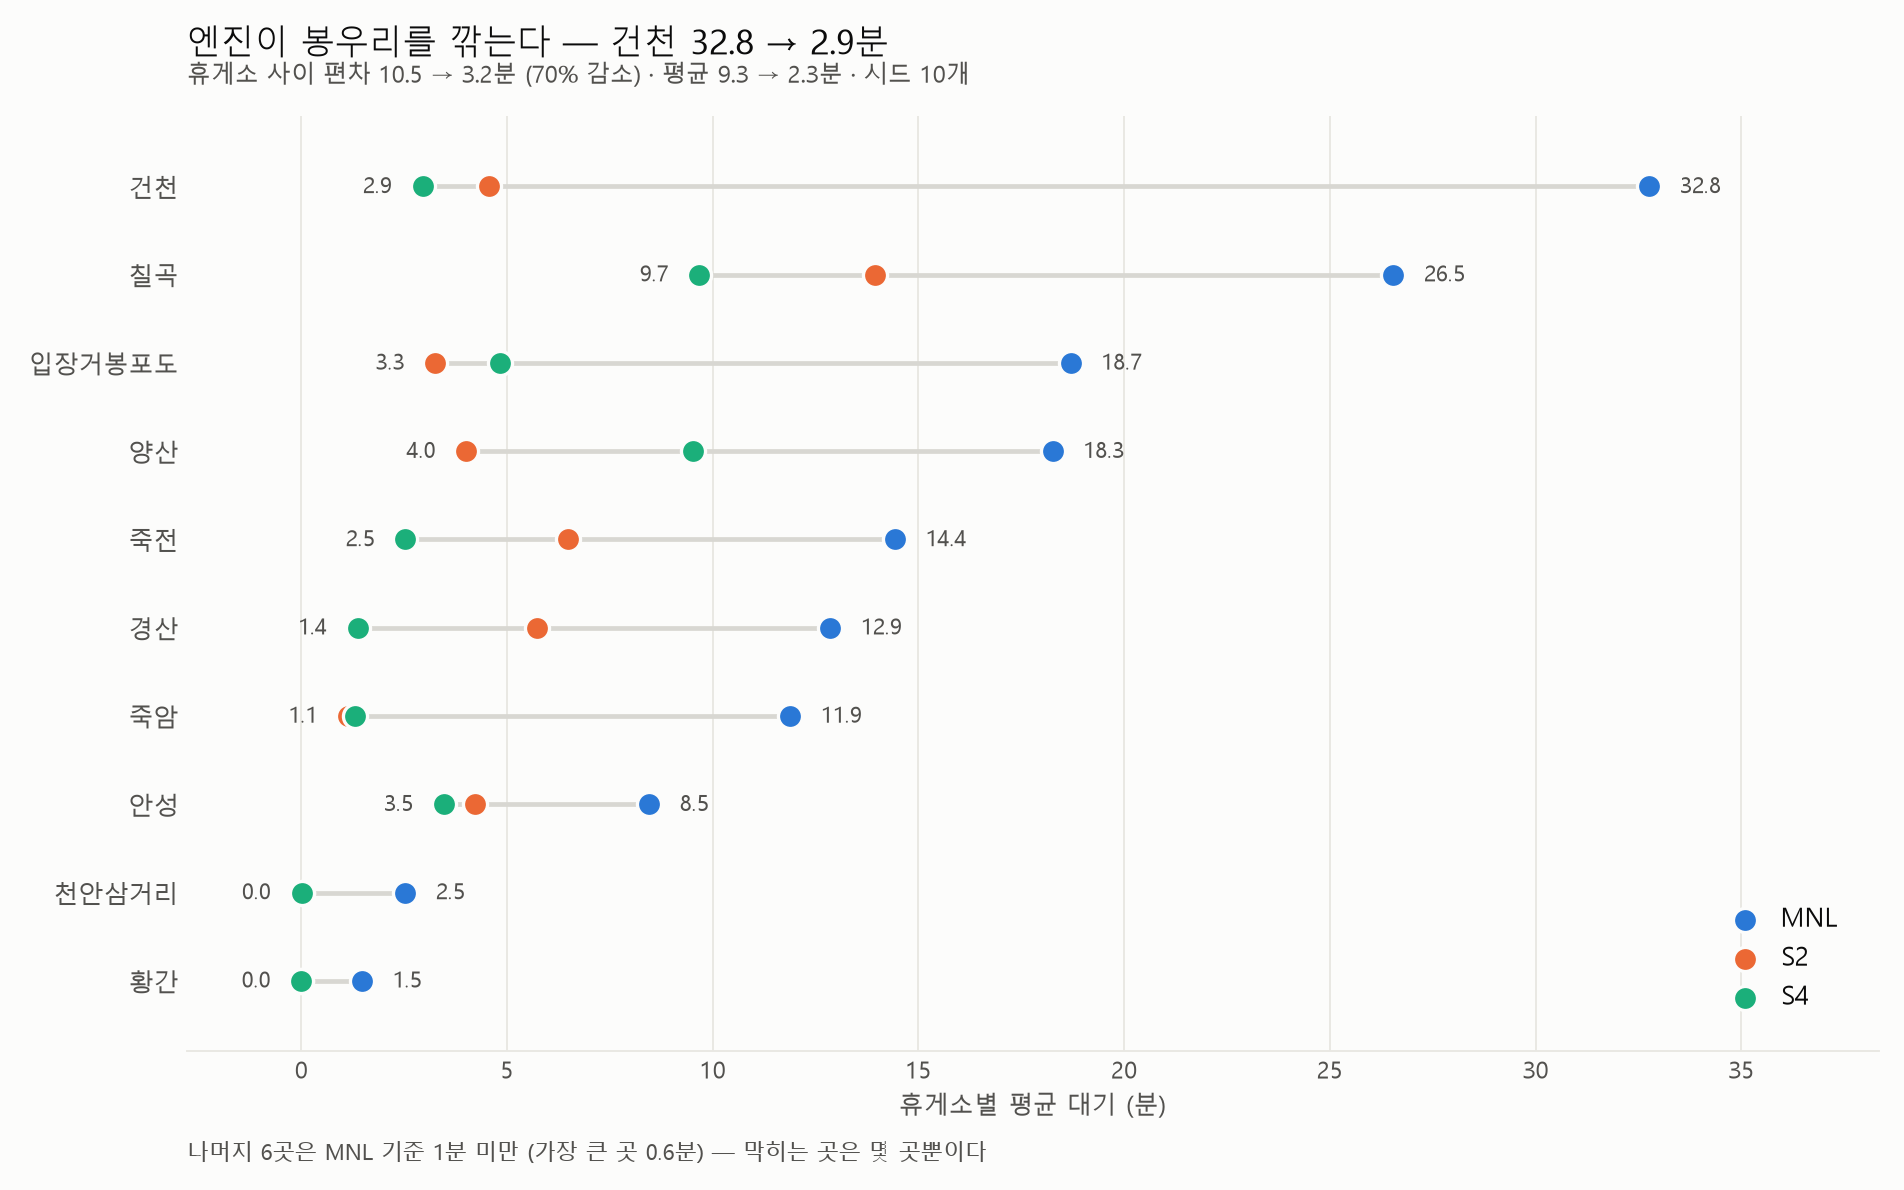
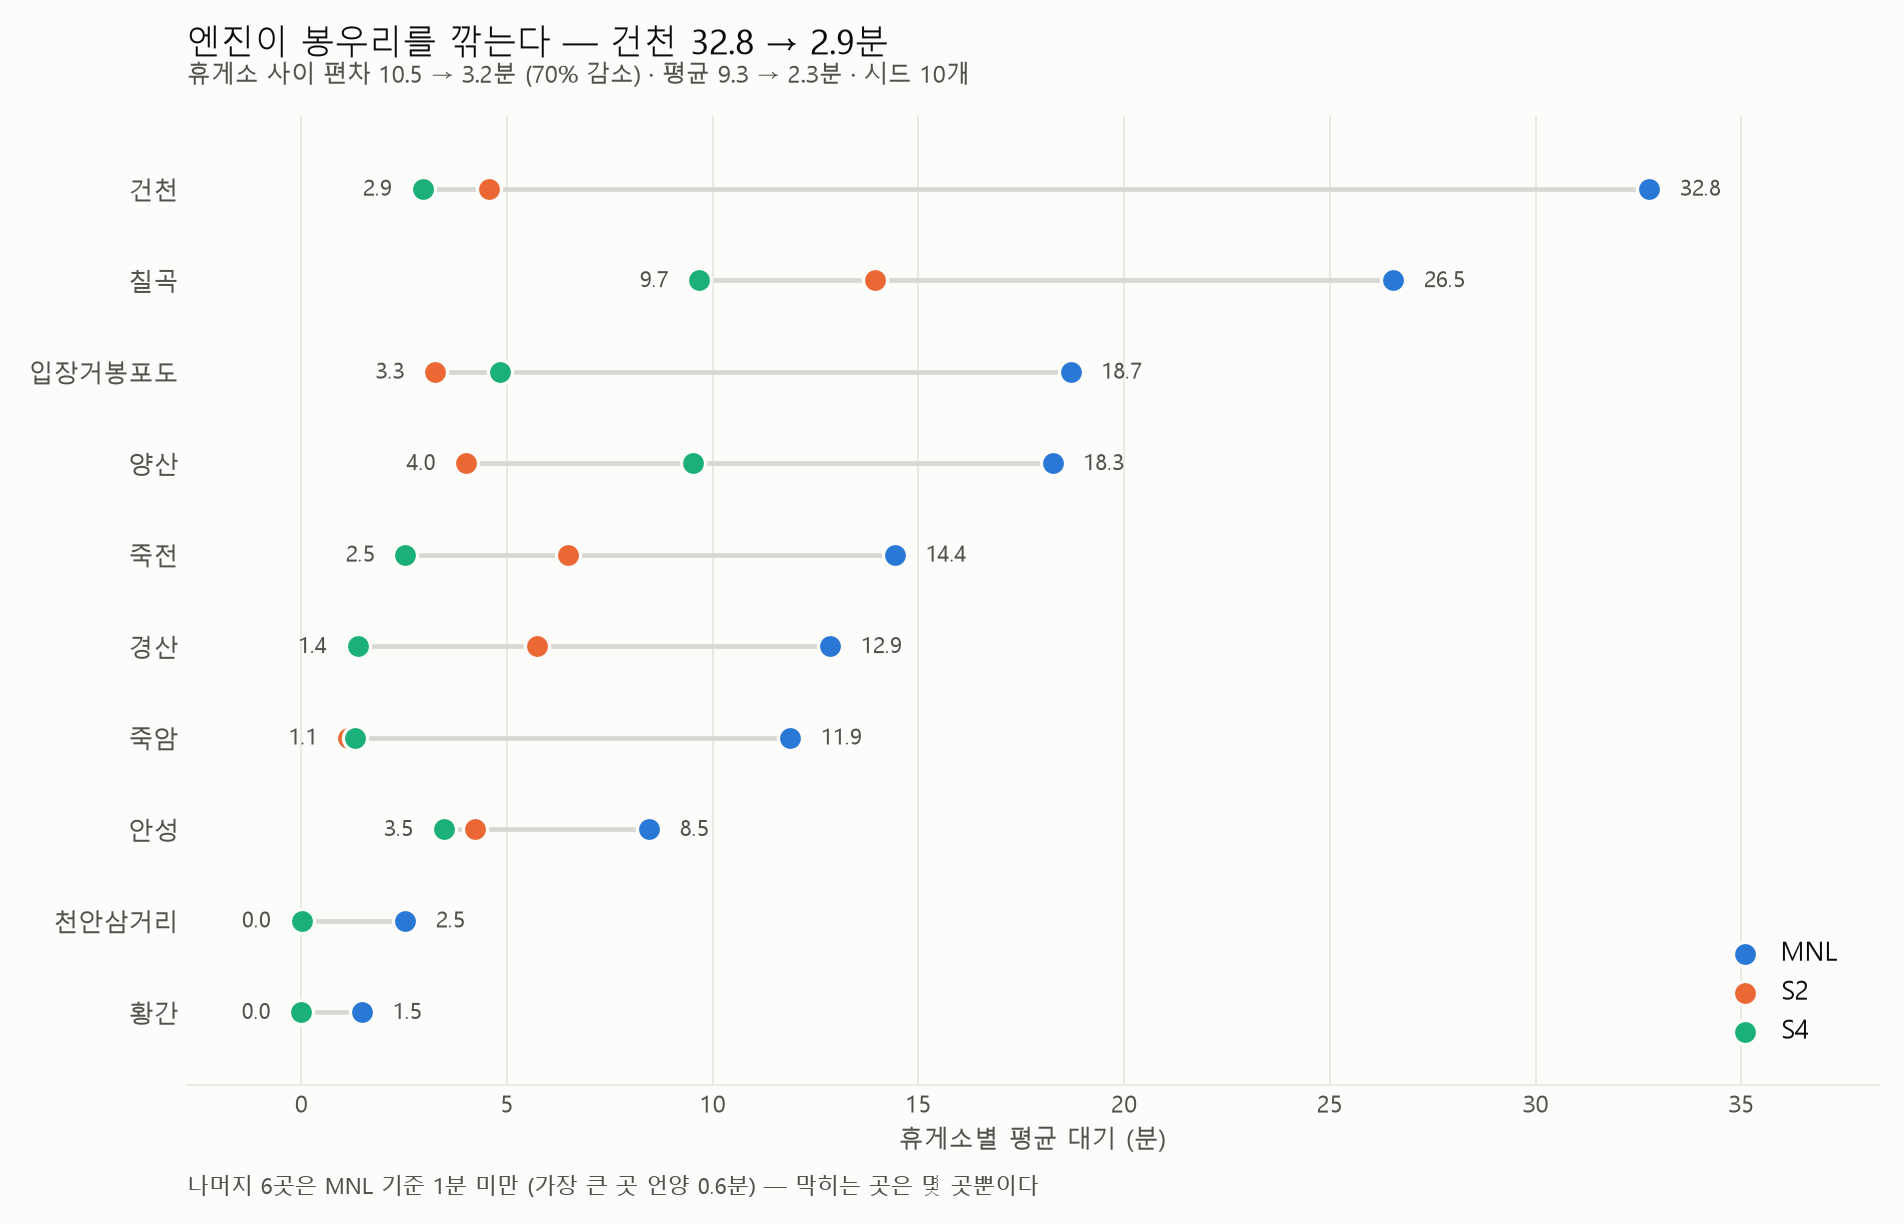
feat: 시간축 대기 파형 (칸마다 패널) + 덤벨 상위 N 모드
## 새 그림 — `plot_wait_signal.py`

세 그림이 각자 다른 질문에 답한다:

  plot_station_bars.py    가로축 = 휴게소, 칸마다 패널.  **어디가** 막히나
  plot_wait_dumbbell.py   가로축 = 대기,  한 줄 = 휴게소. **얼마나** 깎이나
  plot_wait_signal.py     가로축 = **시각**, 칸마다 패널. **언제** 막히나

신호 분해 그림처럼 **겹치지 않고 쌓는다.** 겹쳐 그리면 선이 서로를 가리고
"진폭이 줄었다" 가 엉킴으로 보인다.

★ **세로 눈금을 세 칸이 공유한다.** 패널마다 제 눈금을 쓰면 세 파형이 똑같아
  보인다 (#93 에서 겪은 그 고장) — 그러면 이 그림은 거짓말이 된다.

### 대기를 어떻게 샘플링하나

`charge_event.wait_min` 을 **도착 시각**으로 구간에 담아 평균한다.
사다리 run 에는 5분 간격 `snapshot.parquet` 의 `wait_min` 이 있지만 쓰지
않는다 — 그건 "지금 가면 기다릴 시간"(앱 화면 값)이라 차가 없는 프레임까지
평균에 들어가 희석되고, 무엇보다 **MNL 은 스냅샷이 아예 없다**
(`run_mnl_world.py` 가 버린다). 충전 이벤트로 뽑아야 세 칸을 같은 자로 본다.
그리고 그게 막대·덤벨·히트맵과 **같은 열**이다.

### 결과 (추석 9/25 EV15%, 10시드, 10분 구간)

  코리도 전체   봉우리 15.7 -> 7.2 -> 5.3분 (66% 감소) · 평균 8.1 -> 2.7 -> 2.0
  건천          봉우리 67.7 -> 12.2 -> 9.4분 (86% 감소) · 평균 34.8 -> 4.0 -> 2.5

## 덤벨 `--top N`

상위 N 곳만 남기고 점·글씨를 키운다 (6줄 이하면 자동). 슬라이드용.

### 그리면서 고친 것 둘

· **각주를 거른 방식에 맞춰 쓴다.** `--top 5` 로 자른 뒤에도 "1분 미만" 이라고
  적어서 "나머지 11곳은 1분 미만 (가장 큰 곳 12.9분)" 이라는 모순이 찍혔다
· **휴게소 이름은 상·하행에 둘 다 있다** (건천휴게소가 UP·DOWN 두 곳).
  이름 -> id 사전을 코리도로 좁히지 않아 반대 방향을 가리켜 빈 결과가 났다

diff --git a/scripts/plot_wait_signal.py b/scripts/plot_wait_signal.py
@@ -1,0 +1,199 @@
+"""대기 파형 — **시간축으로 샘플링**해서 칸마다 패널 하나 (발표 §5-1).
+
+    python scripts/plot_wait_signal.py
+    python scripts/plot_wait_signal.py --station 건천휴게소
+    python scripts/plot_wait_signal.py --bin 5 --dark
+
+## 다른 두 그림과 무엇이 다른가
+
+    plot_station_bars.py    가로축 = 휴게소, 칸마다 패널.  **어디가** 막히나
+    plot_wait_dumbbell.py   가로축 = 대기,  한 줄 = 휴게소. **얼마나** 깎이나
+    이 그림                  가로축 = **시각**, 칸마다 패널. **언제** 막히나
+
+신호 분해 그림처럼 **겹치지 않고 쌓는다.** 겹쳐 그리면 선이 서로를 가리고,
+"진폭이 줄었다" 가 선 세 개의 엉킴으로 보인다. 쌓아 놓고 **세로 눈금을 공유**
+하면 위에서 아래로 내려가며 봉우리가 주저앉는 것이 한눈에 보인다.
+
+★ **세로 눈금을 공유하지 않으면 이 그림은 거짓말이 된다.** 패널마다 제 눈금을
+  쓰면 세 파형이 똑같아 보인다 (#93 에서 겪은 그 고장).
+
+## 대기를 어떻게 샘플링하나
+
+`charge_event.wait_min` 을 **도착 시각**으로 구간에 담아 평균한다.
+
+  · 사다리 run 에는 5분 간격 `snapshot.parquet` 에 `wait_min` 이 있지만 **쓰지
+    않는다.** 그건 "지금 가면 기다릴 시간"(앱 화면 값)이고, 차가 한 대도 없는
+    프레임까지 평균에 들어가 값이 희석된다
+  · `charge_event.wait_min` 은 **실제로 기다린 시간**이고, 막대 그림·덤벨·
+    2D 히트맵과 **같은 열**이다. 그림마다 다른 정의를 쓰면 나란히 못 놓는다
+  · 그리고 MNL 은 `run_mnl_world.py` 로 돌아서 **스냅샷이 아예 없다.**
+    충전 이벤트로 뽑아야 세 칸을 같은 자로 견줄 수 있다
+"""
+
+from __future__ import annotations
+
+import argparse
+import sqlite3
+import sys
+from pathlib import Path
+
+import matplotlib
+import numpy as np
+import pandas as pd
+from _bootstrap import ROOT  # noqa: E402,F401
+
+from evdt.io.run_registry import make_run_id  # noqa: E402
+from evdt.paths import RUNS_DIR, default_db_path  # noqa: E402
+from evdt.runner import load_config, parse_seeds  # noqa: E402
+from evdt.viz.plots import _korean_font  # noqa: E402
+
+matplotlib.use("Agg")
+import matplotlib.pyplot as plt  # noqa: E402
+
+#: 검증된 범주형 1·2·3 번 칸 — 덤벨 그림과 **같은 색**이어야 나란히 놓인다
+SERIES = ["#2a78d6", "#eb6834", "#1baf7a"]
+SERIES_DARK = ["#3987e5", "#d95926", "#199e70"]
+LIGHT = {"surface": "#fcfcfb", "ink": "#0b0b0b", "ink2": "#52514e", "grid": "#e8e7e2"}
+DARK = {"surface": "#1a1a19", "ink": "#f0efec", "ink2": "#c3c2b7", "grid": "#2c2c29"}
+
+
+def binned(paths: list[Path], bin_min: float, station: str | None,
+           sid_of: dict[str, str]) -> pd.Series:
+    """도착 시각 구간별 평균 실제 대기. 시드마다 내고 평균한다."""
+
+    acc = []
+    for p in paths:
+        if not p.is_file():
+            continue
+        f = pd.read_parquet(p)
+        if station:
+            f = f[f["station_id"] == sid_of[station]]
+        if not len(f):
+            continue
+        f = f.assign(b=(f["t_arrive_min"] // bin_min) * bin_min)
+        acc.append(f.groupby("b")["wait_min"].mean())
+    if not acc:
+        raise SystemExit("[중단] 충전 이벤트를 못 찾았다")
+    return pd.concat(acc, axis=1).mean(axis=1).sort_index()
+
+
+def main() -> int:
+    ap = argparse.ArgumentParser(
+        description=__doc__, formatter_class=argparse.RawDescriptionHelpFormatter)
+    ap.add_argument("--config", default="config/scenario_chuseok_up_congested.yaml")
+    ap.add_argument("--stages", default="S2,S4")
+    ap.add_argument("--seeds", default="1-10")
+    ap.add_argument("--mnl-dir",
+                    default="runs/mnl_world/chuseok_congested_floor/theta0p05_w1p0")
+    ap.add_argument("--bin", type=float, default=10.0, help="샘플 구간 (분)")
+    ap.add_argument("--station", default=None,
+                    help="한 휴게소만 (예: 건천휴게소). 비우면 코리도 전체")
+    ap.add_argument("--from-hour", type=float, default=5.0)
+    ap.add_argument("--to-hour", type=float, default=23.0)
+    ap.add_argument("--dark", action="store_true")
+    ap.add_argument("--out", default="docs/figures/wait_signal.png")
+    args = ap.parse_args()
+
+    cfg = load_config(args.config, stage="S0")
+    stages = [s.strip() for s in args.stages.split(",") if s.strip()]
+    seeds = parse_seeds(args.seeds)
+    if len(stages) + 1 > len(SERIES):
+        raise SystemExit(f"[중단] 칸이 {len(stages) + 1}개다 — 색이 3칸까지다")
+
+    # ★ 휴게소 **이름은 상·하행에 둘 다 있다** (건천휴게소가 UP·DOWN 두 곳).
+    #   코리도로 좁히지 않으면 이름 → id 사전이 반대 방향을 가리켜 빈 결과가 난다
+    with sqlite3.connect(f"file:{default_db_path()}?mode=ro", uri=True) as con:
+        sid_of = {n: s for s, n in con.execute(
+            "SELECT station_id, name FROM station WHERE corridor_id = ?",
+            (cfg.corridor_id,))}
+    if args.station and args.station not in sid_of:
+        raise SystemExit(f"[중단] 그런 휴게소가 없다: {args.station}")
+
+    series: dict[str, pd.Series] = {
+        "MNL": binned([ROOT / args.mnl_dir / f"seed{s}" / "MNL.parquet" for s in seeds],
+                      args.bin, args.station, sid_of)}
+    for st in stages:
+        series[st] = binned(
+            [RUNS_DIR / make_run_id(cfg.scenario_id, st, s, cfg.policy.participation)
+             / "charge_event.parquet" for s in seeds],
+            args.bin, args.station, sid_of)
+
+    lo, hi = args.from_hour * 60, args.to_hour * 60
+    grid = np.arange(lo, hi + args.bin, args.bin)
+    frame = pd.DataFrame({k: v.reindex(grid).fillna(0.0) for k, v in series.items()},
+                         index=grid)
+    keys = list(frame.columns)
+
+    where = args.station or "코리도 전체"
+    print(f"\n{cfg.scenario_id} · {where} · 시드 {len(seeds)}개 · {args.bin:g}분 구간")
+    print(f"\n{'칸':<6}{'평균':>8}{'최대':>8}{'봉우리 시각':>12}{'편차':>8}")
+    for k in keys:
+        pk = frame[k].idxmax()
+        print(f"{k:<6}{frame[k].mean():>8.1f}{frame[k].max():>8.1f}"
+              f"{int(pk) // 60:>9}시{int(pk) % 60:02d}분{frame[k].std(ddof=1):>8.1f}")
+    print(f"\n  ★ 봉우리 {frame[keys[0]].max():.1f} → {frame[keys[-1]].max():.1f}분 "
+          f"({(1 - frame[keys[-1]].max() / frame[keys[0]].max()) * 100:.0f}% 감소)")
+
+    # --- 그림 ---------------------------------------------------------------
+    C = DARK if args.dark else LIGHT
+    cols = SERIES_DARK if args.dark else SERIES
+    _korean_font(plt)
+    n = len(keys)
+    fig, axes = plt.subplots(n, 1, figsize=(11.0, 2.35 * n + 1.6), sharex=True,
+                             sharey=True)                 # ★ 세로 눈금 공유
+    fig.patch.set_facecolor(C["surface"])
+    top = float(frame.to_numpy().max()) * 1.22
+
+    for i, (k, ax) in enumerate(zip(keys, axes, strict=True)):
+        ax.set_facecolor(C["surface"])
+        x = frame.index / 60.0
+        ax.fill_between(x, frame[k], color=cols[i], alpha=0.16, zorder=2)
+        ax.plot(x, frame[k], color=cols[i], linewidth=2.0, zorder=3)
+
+        pk = frame[k].idxmax()
+        ax.plot([pk / 60.0], [frame[k].max()], "o", markersize=9, color=cols[i],
+                markeredgecolor=C["surface"], markeredgewidth=2.0, zorder=4)
+        ax.annotate(f"최대 {frame[k].max():.1f}분",
+                    (pk / 60.0, frame[k].max()), textcoords="offset points",
+                    xytext=(9, 4), fontsize=10, color=C["ink2"], zorder=5)
+
+        ax.set_ylim(0, top)
+        ax.set_ylabel("대기 (분)", fontsize=10, color=C["ink2"])
+        ax.grid(axis="y", color=C["grid"], linewidth=0.8, zorder=0)
+        ax.set_axisbelow(True)
+        for side in ("top", "right"):
+            ax.spines[side].set_visible(False)
+        for side in ("left", "bottom"):
+            ax.spines[side].set_color(C["grid"])
+        ax.tick_params(colors=C["ink2"], length=0, labelsize=10)
+        # 한 패널에 한 선이라 범례가 없다 — **제목이 이름을 진다**
+        ax.set_title(f"{k}   평균 {frame[k].mean():.1f}분", fontsize=12.5,
+                     color=C["ink"], loc="left", pad=7)
+
+    axes[-1].set_xlabel("시각", fontsize=10.5, color=C["ink2"])
+    axes[-1].set_xticks(np.arange(args.from_hour, args.to_hour + 1, 2))
+    axes[-1].set_xticklabels([f"{int(h)}시" for h in
+                              np.arange(args.from_hour, args.to_hour + 1, 2)])
+
+    cut = (1 - frame[keys[-1]].max() / frame[keys[0]].max()) * 100
+    # ★ 제목은 `suptitle` 과 `fig.text` 를 섞지 않는다 — 둘의 y 기준이 달라
+    #   겹친다. 같은 방식으로 두 줄을 쓰고 간격을 직접 준다.
+    #   그리고 matplotlib 은 `**굵게**` 를 못 읽는다 (그대로 찍힌다)
+    fig.text(0.012, 0.985, f"언제 막히나 — {where} · 봉우리 "
+             f"{frame[keys[0]].max():.1f} → {frame[keys[-1]].max():.1f}분 "
+             f"({cut:.0f}% 감소)",
+             fontsize=15, color=C["ink"], ha="left", va="top")
+    fig.text(0.012, 0.947, f"세 칸이 세로 눈금을 공유한다 · 시드 {len(seeds)}개 · "
+             f"{args.bin:g}분 구간 평균 실제 대기",
+             fontsize=10, color=C["ink2"], ha="left", va="top")
+
+    fig.tight_layout(rect=(0, 0, 1, 0.925))
+    out = ROOT / args.out
+    out.parent.mkdir(parents=True, exist_ok=True)
+    fig.savefig(out, dpi=170, facecolor=C["surface"])
+    print(f"\n  저장 → {out}")
+    return 0
+
+
+if __name__ == "__main__":
+    sys.exit(main())

diff --git a/scripts/plot_wait_dumbbell.py b/scripts/plot_wait_dumbbell.py
@@ -111,6 +111,8 @@ def main() -> int:
     ap.add_argument("--seeds", default="1-10")
     ap.add_argument("--mnl-dir",
                     default="runs/mnl_world/chuseok_congested_floor/theta0p05_w1p0")
+    ap.add_argument("--top", type=int, default=0,
+                    help="첫 칸 기준 상위 N 곳만 크게. 0 이면 `--min-wait` 로 거른다")
     ap.add_argument("--min-wait", type=float, default=1.0,
                     help="첫 칸 대기가 이 아래인 휴게소는 줄에서 빼고 각주로 적는다. "
                          "0 분짜리 줄이 그림 절반을 먹으면 봉우리가 안 보인다")
@@ -143,8 +145,12 @@ def main() -> int:
     #   "고르게 됐다" 의 분모가 바뀌어 다른 주장이 된다 (전체 10.5 → 3.2 가
     #   거른 뒤에는 9.8 → 3.5 로 보인다)
     full = frame
-    quiet = frame[frame[frame.columns[0]] < args.min_wait]
-    frame = frame[frame[frame.columns[0]] >= args.min_wait]
+    if args.top:
+        quiet = frame.iloc[:-args.top]
+        frame = frame.tail(args.top)
+    else:
+        quiet = frame[frame[frame.columns[0]] < args.min_wait]
+        frame = frame[frame[frame.columns[0]] >= args.min_wait]
 
     # --- 표 (대비 WARN 의 구제책 겸 검산) -----------------------------------
     keys = list(full.columns)
@@ -167,7 +173,9 @@ def main() -> int:
     cols = SERIES_DARK if args.dark else SERIES
     _korean_font(plt)
     n = len(frame)
-    fig, ax = plt.subplots(figsize=(11.2, 0.46 * n + 2.4))
+    big = n <= 6                      # 줄이 적으면 슬라이드용으로 키운다
+    fs = 15.0 if big else 10.5
+    fig, ax = plt.subplots(figsize=(11.2, (0.92 if big else 0.46) * n + 2.6))
     fig.patch.set_facecolor(C["surface"])
     ax.set_facecolor(C["surface"])
 
@@ -175,13 +183,14 @@ def main() -> int:
     lo = frame[keys].min(axis=1).to_numpy()
     hi = frame[keys].max(axis=1).to_numpy()
     # 항목 안에서만 잇는다 — 휴게소 **사이** 를 잇지 않는다
-    ax.hlines(y, lo, hi, color=C["rule"], linewidth=2.0, zorder=1)
+    ax.hlines(y, lo, hi, color=C["rule"], linewidth=3.0 if big else 2.0, zorder=1)
 
     for i, k in enumerate(keys):
         # 겹친 점에 바탕색 테두리를 둘러 앞뒤를 가른다. 2px 는 이 크기에서
         # 초승달처럼 깨져 보여서 1.4px 로 낮췄다
-        ax.scatter(frame[k], y, s=104, color=cols[i], zorder=3 + i,
-                   edgecolors=C["surface"], linewidths=1.4, label=k)
+        ax.scatter(frame[k], y, s=250 if big else 104, color=cols[i], zorder=3 + i,
+                   edgecolors=C["surface"], linewidths=2.0 if big else 1.4,
+                   label=k)
 
     # 직접 라벨 — 청록의 배경 대비가 3:1 아래라 **의무**다.
     # ★ **그 줄의 최소·최대 점**에 바깥쪽으로 붙인다. 처음에는 "첫 칸은 오른쪽,
@@ -202,7 +211,7 @@ def main() -> int:
                         color=C["ink2"], zorder=9)
 
     ax.set_yticks(y)
-    ax.set_yticklabels(frame.index, fontsize=10.5, color=C["ink"])
+    ax.set_yticklabels(frame.index, fontsize=fs, color=C["ink"])
     ax.set_xlabel("휴게소별 평균 대기 (분)", fontsize=10.5, color=C["ink2"])
     top = float(frame[keys].to_numpy().max())
     ax.set_xlim(-top * 0.085, top * 1.17)
@@ -227,12 +236,18 @@ def main() -> int:
         textcoords="offset points", fontsize=10, color=C["ink2"])
 
     if len(quiet):
+        # ★ 각주는 **거른 방식에 맞춰** 쓴다. `--top` 으로 자른 뒤에도
+        #   "1분 미만" 이라고 적으면 거짓말이 된다 (상위 5곳만 남기면 나머지에
+        #   경산 12.9분이 들어 있다)
+        worst_nm = str(quiet[keys[0]].idxmax())
         worst = float(quiet[keys[0]].max())
-        ax.annotate(
-            f"나머지 {len(quiet)}곳은 {keys[0]} 기준 {args.min_wait:g}분 미만 "
-            f"(가장 큰 곳 {worst:.1f}분) — 막히는 곳은 몇 곳뿐이다",
-            xy=(0, 0), xycoords="axes fraction", xytext=(0, -46),
-            textcoords="offset points", fontsize=9.5, color=C["ink2"])
+        note = (f"나머지 {len(quiet)}곳은 그림에서 뺐다 — 가장 큰 곳이 "
+                f"{worst_nm} {worst:.1f}분"
+                if args.top else
+                f"나머지 {len(quiet)}곳은 {keys[0]} 기준 {args.min_wait:g}분 미만 "
+                f"(가장 큰 곳 {worst_nm} {worst:.1f}분) — 막히는 곳은 몇 곳뿐이다")
+        ax.annotate(note, xy=(0, 0), xycoords="axes fraction", xytext=(0, -46),
+                    textcoords="offset points", fontsize=9.5, color=C["ink2"])
 
     leg = ax.legend(loc="lower right", frameon=False, fontsize=11,
                     handletextpad=0.4, borderaxespad=1.2)
